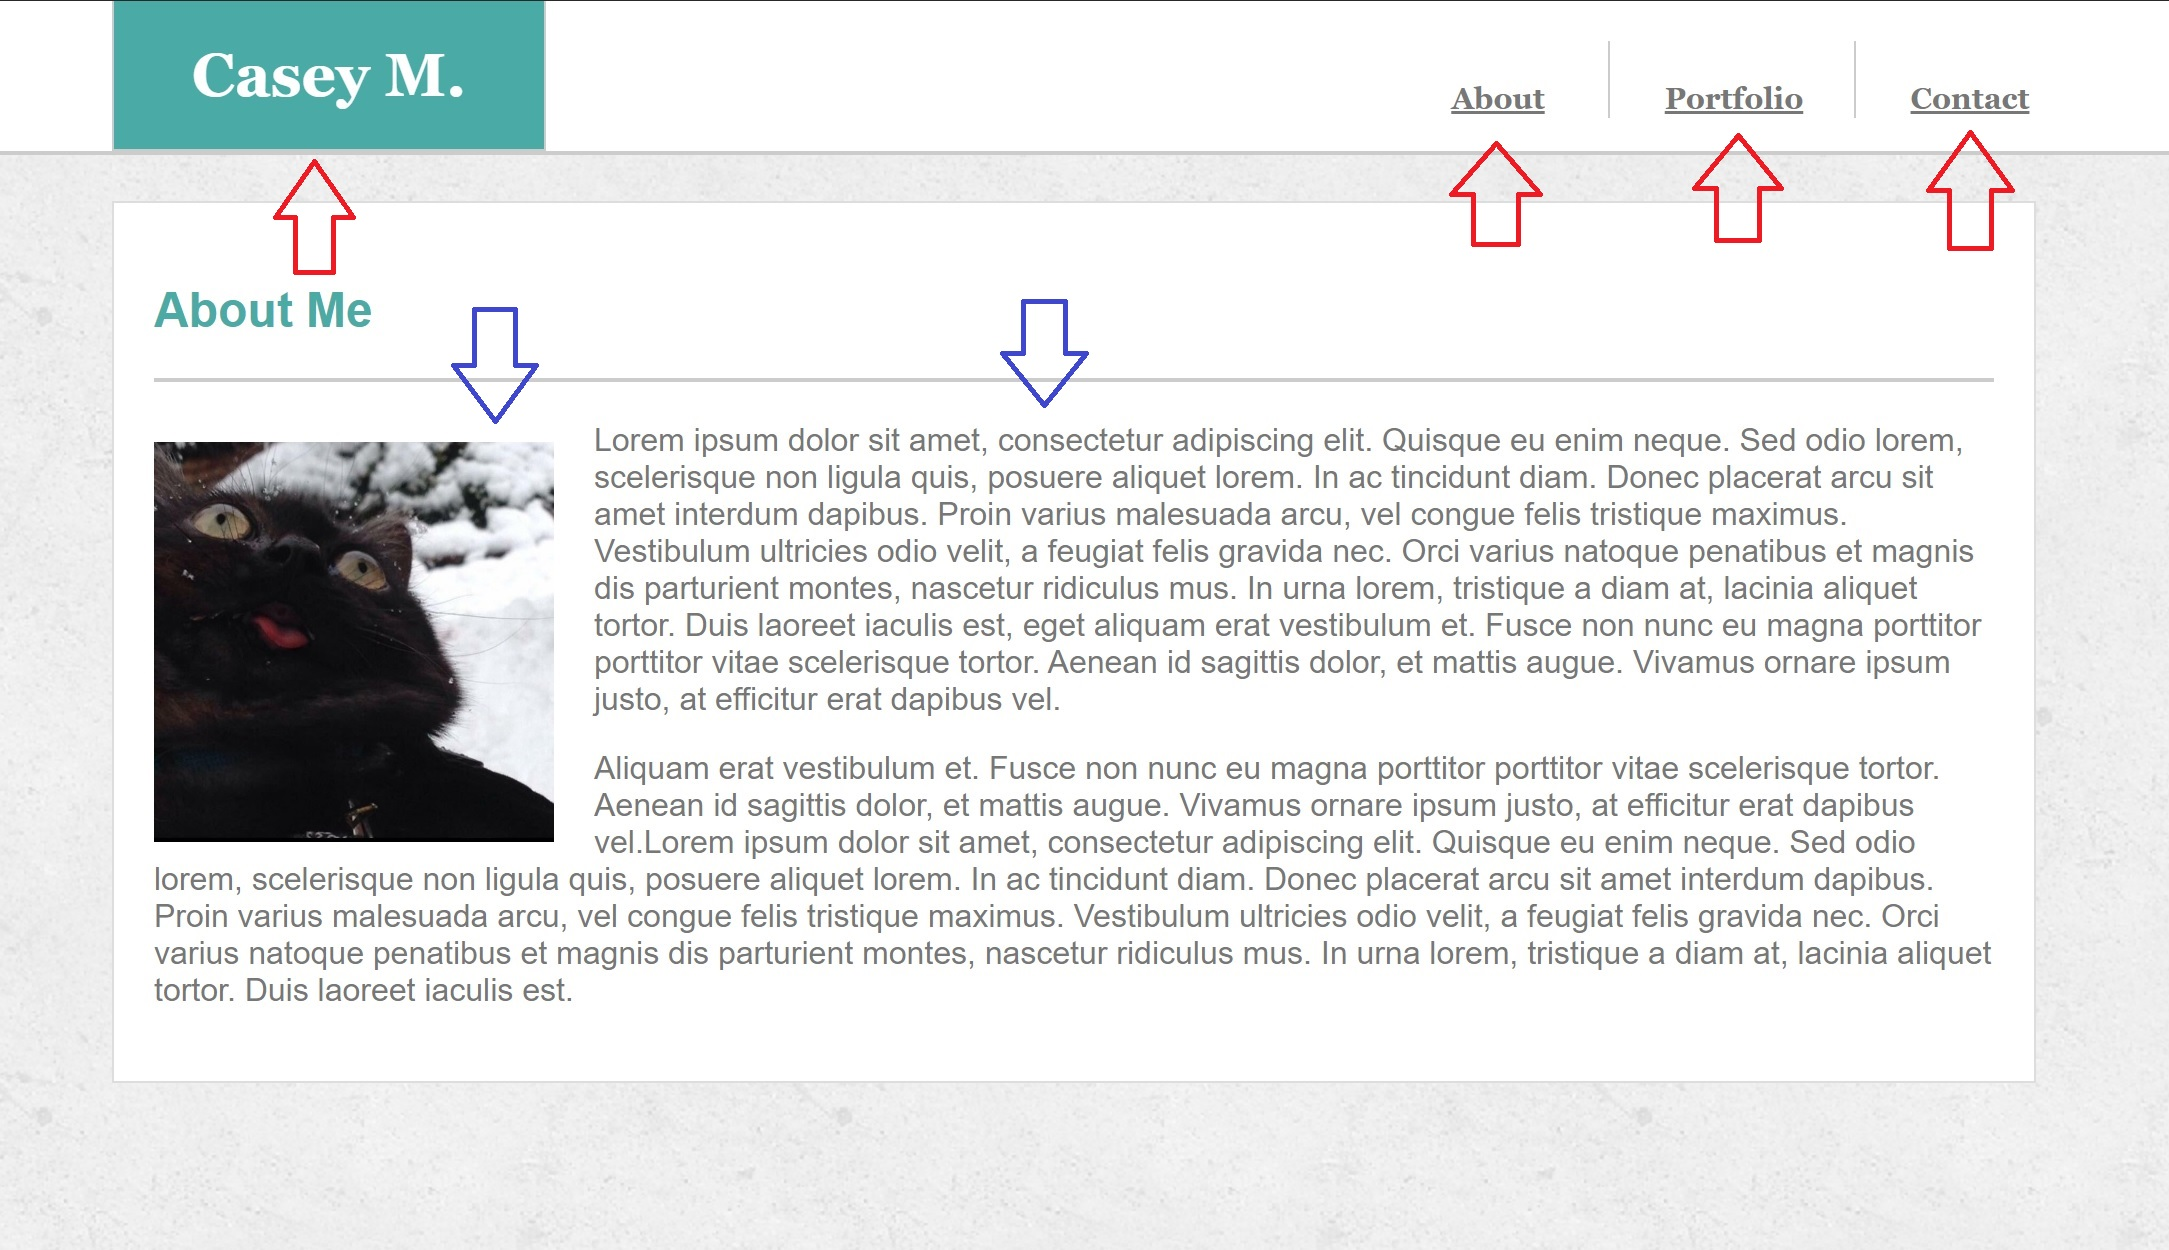
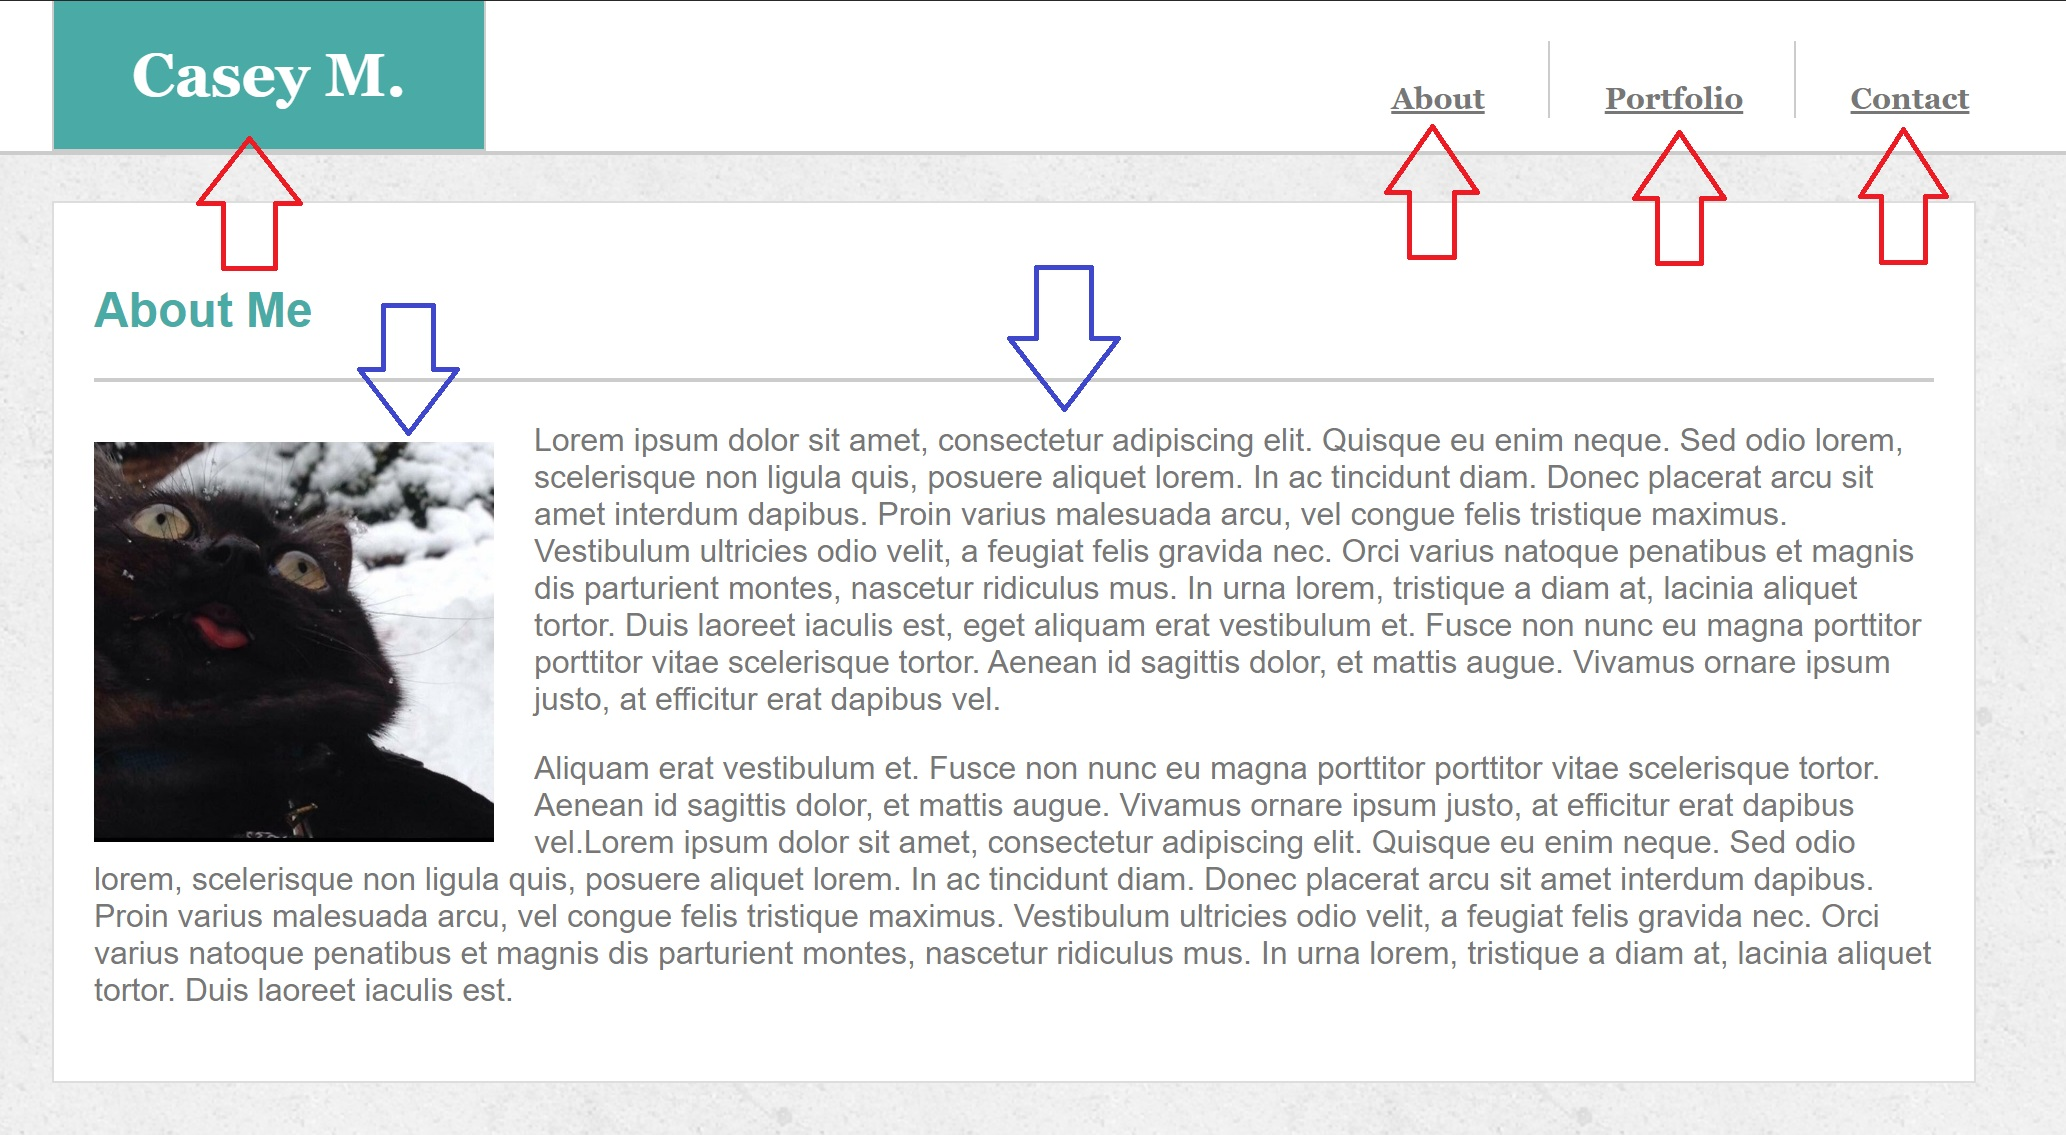
updating README.md

Changed region(s): [[0.0, 0.0, 1.0, 0.8943]]

diff --git a/README.md b/README.md
@@ -14,6 +14,11 @@ Above, you'll notice some red arrows pointing to different parts of the header. 
 The Blue arrows are part of the main Section that gave me trouble. While items of the Header proved a challenge for constantly changing in positon, these elements were difficult in that i could hardly position them at all as most attempts let to zero reaction. This was where the long hours of practice and playing around with different tools eventually came in handy.
 
 
+* [img](assets/images/page-3-readme)
+
+In this image above, the purple arrows are referring to text boxes that i encountered a great deal of trouble with. Initially, i consulted Google but the result led to an odd placement of the elements within the Section and a random teal box-like object appearing right in the center of the page. The cause of this object is still unknown to me as it disappeared once the proper techniques were used.
+
+
 ## Built With
 
 * [HTML](https://developer.mozilla.org/en-US/docs/Web/HTML)
